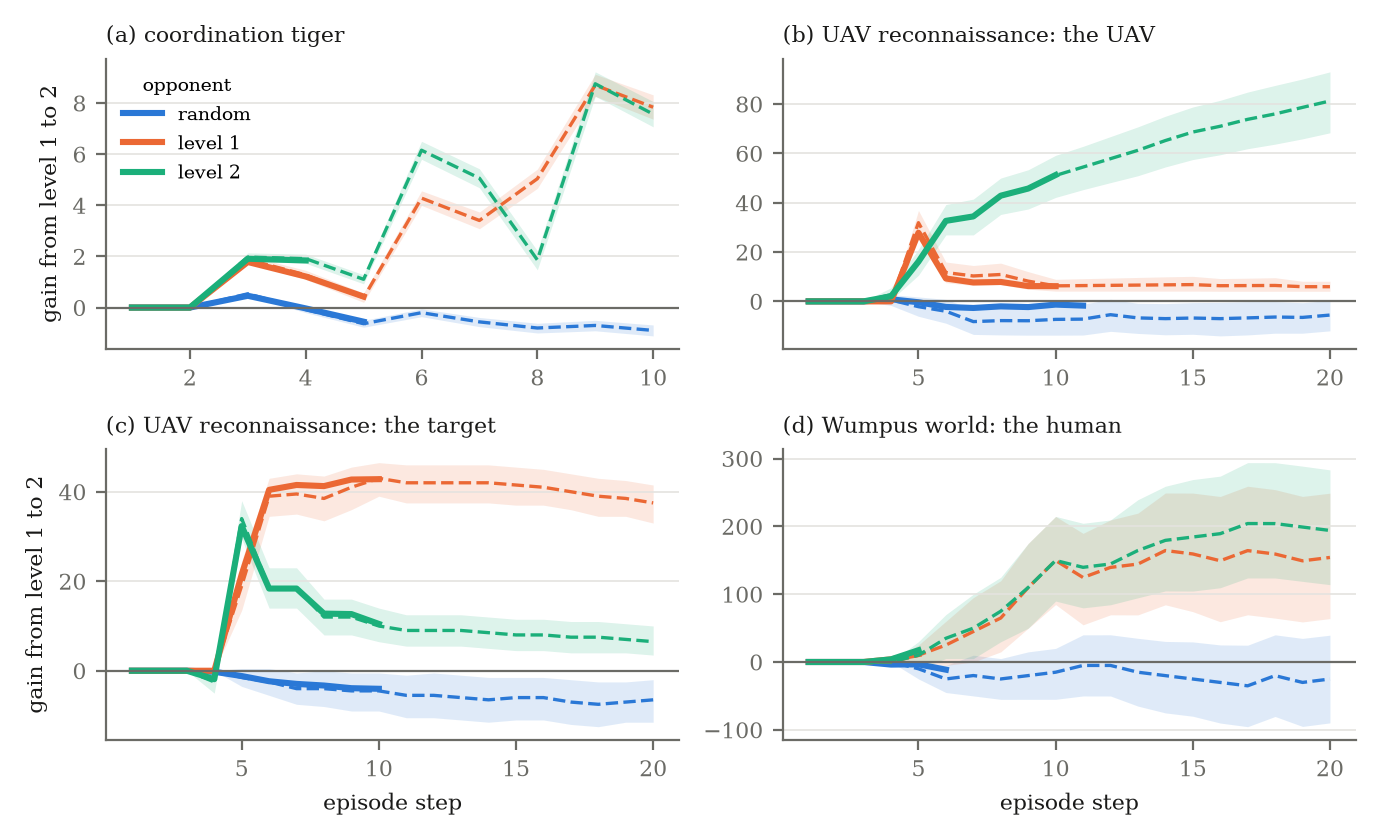
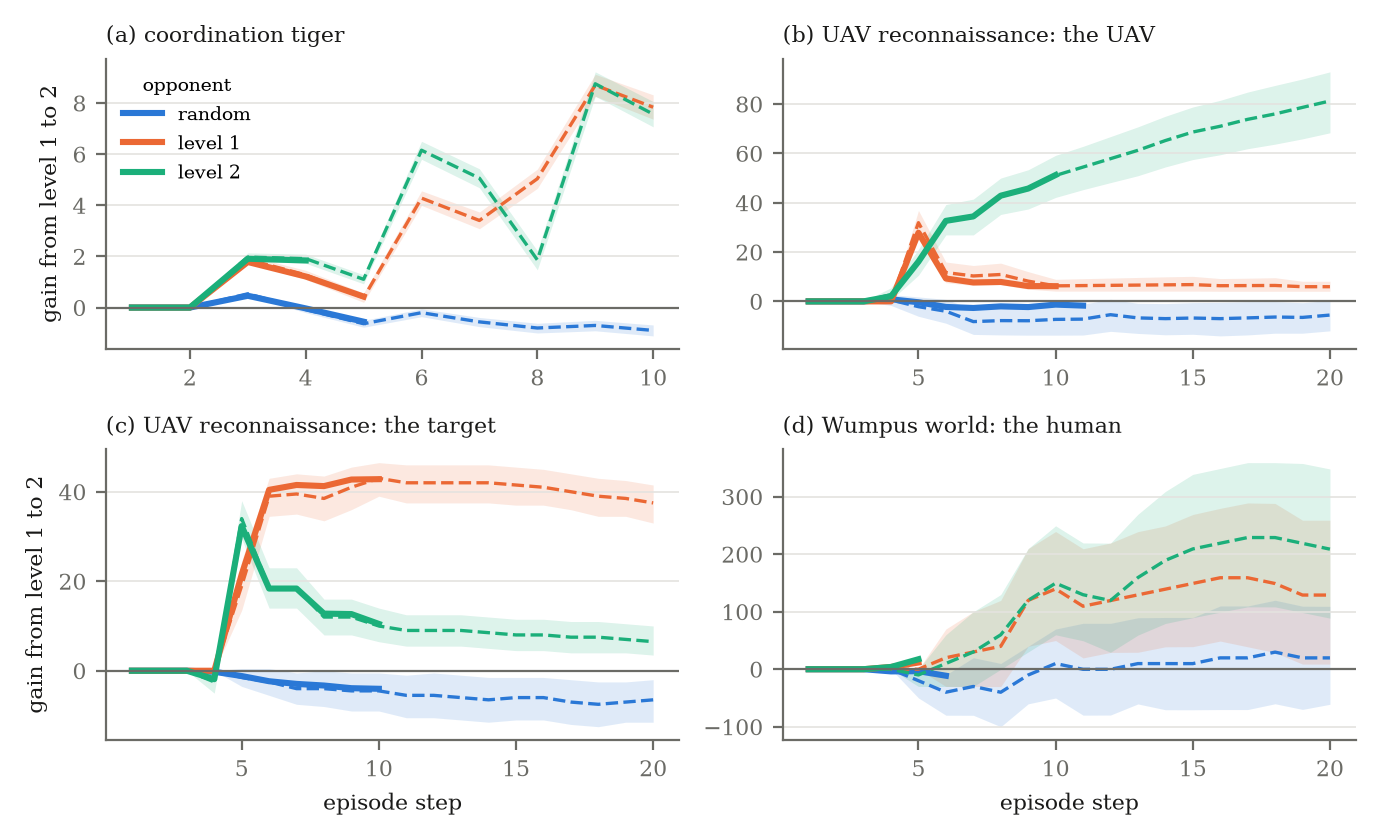
Paper: corrected values and citations; Figure 2's Wumpus panel from the pre-registered confirmation trials; planner seeds and plan-value units in the supplement

diff --git a/docs/paper/latex/main.tex b/docs/paper/latex/main.tex
@@ -262,13 +262,13 @@ All three domains are two-agent and finite, with explicit transition, observatio
 
 \paragraph{Multi-agent tiger.} Two agents face two doors, one hiding a tiger and the other a prize \cite{gmytrasiewicz2005framework}, so there are two physical states. Each agent can listen or open a door; listening costs 1, opening the tiger's door costs 100 and opening the other door pays 10, and if either agent opens a door the tiger is placed at random. A listening agent hears the tiger's growl from the correct side with probability 0.85, together with a creak that reports the other agent's action with probability 0.9. In this game, which we call the \emph{original} game, each agent's payoff depends only on its own door. We also use a \emph{coordination} variant with the same states, transitions and observations, in which each agent's payoff depends on the other agent's action: an agent that opens the safe door in the same step as the other agent receives 40 instead of 10. The joint payoff was chosen so that the exact value of one more level of reasoning is positive at reachable beliefs. We use the original game only for single decisions and the comparison with the baselines; all results on levels and depth use the coordination game, UAV reconnaissance and the Wumpus world.
 
-\paragraph{UAV reconnaissance and the Wumpus world.} In UAV reconnaissance \cite{doshi2009monte}, an unmanned aerial vehicle $i$ seeks a ground target $j$ on a $3 \times 3$ grid of sectors (81 physical states, 5 actions per agent). The UAV receives 50 for spotting the target, which ends the episode, and pays 5 for every other step; the target loses 50 when spotted. Parameters the original description leaves open follow \citet{zeng2012exploiting}. In the two-agent Wumpus world, a human $i$ searches a $3 \times 3$ grid with one pit for gold, while a wumpus $j$ hunts the human (2{,}048 initial states). The human receives 1000 for the gold and $-1000$ for dying, and the wumpus 1000 for catching the human and $-1000$ for being shot; every other step costs 1. All percepts are deterministic, which makes this domain a stress test for sampled beliefs. The supplement specifies both domains in full.
+\paragraph{UAV reconnaissance and the Wumpus world.} In UAV reconnaissance \cite{doshi2009monte}, an unmanned aerial vehicle $i$ seeks a ground target $j$ on a $3 \times 3$ grid of sectors (81 physical states, 5 actions per agent). The UAV receives 50 for spotting the target, which ends the episode, and pays 5 for every other step; the target loses 50 when spotted. The UAV's sensor and rewards follow \citet{zeng2012exploiting}; the target's are ours. In the two-agent Wumpus world, a human $i$ searches a $3 \times 3$ grid with one pit for gold, while a wumpus $j$ hunts the human (2{,}048 initial states). The human receives 1000 for the gold and $-1000$ for dying, and the wumpus 1000 for catching the human and $-1000$ for being shot; every other step costs 1, and a shot 10. All percepts are deterministic, which makes this domain a stress test for sampled beliefs. The supplement specifies both domains in full.
 
 \subsection{Exact References}
 
 \paragraph{Decisions.} For a single decision, we solve the finite-horizon I-POMDP of Eq.~\ref{eq:value} by full enumeration, with exact beliefs and every lower level solved exactly in turn; a modeled agent with several optimal actions plays them uniformly. A decision with policy $\pi$ at belief $b_i$ is scored by its first-action loss, $U^H(\theta_i) - \sum_{a} \pi(a)\, Q^H(\theta_i, a)$, the value it loses if every later decision is optimal. A decision is \emph{optimal} when its loss is at most $10^{-9}$.
 
-\paragraph{Episodes.} Each agent's realized actions and observations are replayed through the \emph{exact} (Bayes-optimal) agent of the same level, with the same frames, level priors and lookahead, exact beliefs, and every level solved exactly. At every step we test whether the agent's action is optimal for the exact agent, and compare the two posteriors over the other agent's level by total variation. Exact beliefs grow about threefold per step, so the replay covers an \emph{exact window} of 10, 8, 4 and 3 steps at levels 1--4 in the tiger game, and 20 and 10 steps at levels 1 and 2 in UAV reconnaissance. Inside the window, the expected reward of a pair of exact agents is computed with zero variance by enumerating the joint process of the physical state and both agents' beliefs.
+\paragraph{Episodes.} Each agent's realized actions and observations are replayed through the \emph{exact} (Bayes-optimal) agent of the same level, with the same frames, level priors and lookahead, exact beliefs, and every level solved exactly. At every step we test whether the agent's action is optimal for the exact agent, and compare the two posteriors over the other agent's level by total variation. In the tiger game exact beliefs grow about threefold per step above level 1; the replay covers an \emph{exact window} of 10, 8, 4 and 3 steps at levels 1--4 in the tiger game, and 20 and 10 steps at levels 1 and 2 in UAV reconnaissance. Inside the window, the expected reward of a pair of exact agents is computed with zero variance by enumerating the joint process of the physical state and both agents' beliefs.
 
 \subsection{Baselines}
 
@@ -280,7 +280,7 @@ All planners are implemented in Python and run single-threaded, one process per 
 
 \subsection{Protocols and Measures}
 
-\paragraph{Decisions at reachable beliefs.} To compare the planners on beliefs that agents reach in play, and on problems that every planner can take (I-NTMCP requires a common prior), we generate agent $i$'s histories from the common prior: $i$ acts uniformly at random among the actions that do not end the episode, and $j$ acts as the exact I-POMDP's own model of it. After 1--5 steps in UAV reconnaissance and 2--4 steps in the Wumpus world, the exact I-POMDP of level 2, with $j$ at level 1, is solved at $i$'s belief, and every planner decides the same problem. Histories that lead to the same belief are counted once: 512 distinct beliefs in UAV reconnaissance and 219 in the Wumpus world, of which a fixed random subset of 100 is decided by every planner and budget. No budget was chosen on these beliefs. Planners are compared with exact McNemar tests \cite{mcnemar1947note}, Holm-corrected \cite{holm1979simple}.
+\paragraph{Decisions at reachable beliefs.} To compare the planners on beliefs that agents reach in play, and on problems that every planner can take (I-NTMCP requires a common prior), we generate agent $i$'s histories from the common prior: $i$ acts uniformly at random among the actions that do not end the episode, and $j$ acts as the exact I-POMDP's own model of it. After 1--5 steps in UAV reconnaissance and 2--4 steps in the Wumpus world, the exact I-POMDP of level 2, with $j$ at level 1, is solved at $i$'s belief, and every planner decides the same problem. Histories that lead to the same belief are counted once: 512 distinct beliefs in UAV reconnaissance and 219 in the Wumpus world, of which a fixed random subset of 100 is decided by every planner and budget. No budget was chosen on these beliefs. Planners are compared with exact McNemar tests \cite{mcnemar1947note}, Holm-corrected \cite{holm1979simple}; intervals are Clopper--Pearson \cite{clopper1934use}.
 
 \paragraph{Decisions at chosen beliefs.} I-POMCP's budgets were chosen on grids of named beliefs at levels 1--4 and horizons 2--5, in which $i$'s and $j$'s beliefs about the physical state are crossed (supplement), and tested, unchanged, on random beliefs and seeds that the selection did not use.
 
@@ -302,9 +302,9 @@ All planners are implemented in Python and run single-threaded, one process per 
 \label{fig:compute}
 \end{figure}
 
-\paragraph{Compute to the Bayes-optimal decision.} Figure~\ref{fig:compute} shows how much computation each planner needs to decide as the Bayes-optimal agent does at UAV $H = 3$. I-POMCP reaches the benchmark with exact beliefs: all 100 decisions are optimal at each of three planner seeds (300 of 300, lower bound 0.988). With $N = 64$ it gives 79--81\% at every budget (89--94\% lose at most 0.05); the misses come from compression inside the tree, and exact beliefs remove every one we examined. IPF + RTS gives 60--75\% for $K$ from 2 to 8, with losses up to 17 (75--81\% with our sparse backup), and I-NTMCP reaches at most 58\%, with losses up to 55, becoming less accurate with more simulations. I-POMCP is right where a baseline is wrong on 25--63 beliefs and never the converse at any seed (Holm $p \leq 10^{-5}$). In the Wumpus world, whose percepts are deterministic, I-POMCP with exact beliefs is optimal on all 219 distinct reachable beliefs (lower bound 0.983), and on the figure's 100 takes 24--25~s against the exact solver's 18~s. IPF + RTS, with likelihood smoothing, is optimal on 47--48\% and I-NTMCP on 77\% (supplement). At the named beliefs on which its budgets were chosen, I-POMCP is optimal on all 2{,}787 decisions at levels 1--4 and horizons 2--5, and on 960 further random beliefs and seeds (supplement). Without exact scoring at the root, 34 of 560 UAV decisions become suboptimal (supplement).
+\paragraph{Compute to the Bayes-optimal decision.} Figure~\ref{fig:compute} shows how much computation each planner needs to decide as the Bayes-optimal agent does at UAV $H = 3$. I-POMCP reaches the benchmark with exact beliefs: all 100 decisions are optimal at each of three planner seeds (lower bound 0.964). With $N = 64$ it gives 79--81\% at every budget (89--94\% lose at most 0.05); the misses come from compression inside the tree, and exact beliefs remove every one we examined. IPF + RTS gives 60--75\% for $K$ from 2 to 8, with losses up to 17 (75--81\% with our sparse backup), and I-NTMCP reaches at most 58\%, with losses up to 55, becoming less accurate with more simulations. I-POMCP is right where a baseline is wrong on 25--63 beliefs and never the converse (Holm $p \leq 10^{-5}$). In the Wumpus world, whose percepts are deterministic, I-POMCP with exact beliefs is optimal on all 219 distinct reachable beliefs (lower bound 0.983), and on the figure's 100 takes 24--25~s against the exact solver's 18~s. IPF + RTS, with likelihood smoothing, is optimal on 47--48\% and I-NTMCP on 78\% (supplement). At the named beliefs on which its budgets were chosen, I-POMCP is optimal on all 2{,}787 decisions at levels 1--4 and horizons 2--5, and on 960 further random beliefs and seeds (supplement). Without exact scoring at the root, 34 of 560 UAV decisions become suboptimal (supplement).
 
-\paragraph{Where the exact solver stops.} At $H = 3$ the exact solver is cheaper than every planner that matches it, but not for long. On every distinct reachable belief of UAV reconnaissance at level 2, its median cost per decision grows 3.9-fold at $H = 4$ and a further 6.2-fold at $H = 5$. With exactly solved modeled levels, I-POMCP is optimal on 119 of 120 beliefs at $H = 4$ at 0.47 times the exact solver's CPU, but on 77 of 84 at $H = 5$ at 1.23 times. Solving the modeled target by search costs 0.005--0.10 times the exact solver and is optimal on 64--72 of 84 at $H = 5$ (mean loss 0.06): a frontier of cost against accuracy, not a planner that dominates the exact solver.
+\paragraph{Where the exact solver stops.} At $H = 3$ the exact solver is cheaper than every planner that matches it, but not for long. On every distinct reachable belief of UAV reconnaissance at level 2, its median cost per decision grows 4.2-fold at $H = 4$ and a further 6.2-fold at $H = 5$. With exactly solved modeled levels, I-POMCP is optimal on 119 of 120 beliefs at $H = 4$ at 0.47 times the exact solver's CPU, but on 77 of 84 at $H = 5$ at 1.23 times. Solving the modeled target by search costs 0.005--0.10 times the exact solver and is optimal on 64--72 of 84 at $H = 5$ (mean loss 0.06--0.80): a frontier of cost against accuracy, not a planner that dominates the exact solver.
 The crossover is sharper within one problem. In coordination tiger at level 3 and $H = 3$, the exact solver's cost per decision grows from 4.4~s to 55~s and 1{,}825~s over two steps of history, and after three it does not finish. I-POMCP with 100 simulations (7 to 59~s) is optimal on all 28 scored beliefs at 0.033 times the exact CPU; IPF + RTS is optimal on all 28 too, at 19--120~s, and I-NTMCP on 21--22.
 The bound also lets the initial belief be wide: over up to 128 level-1 models of $j$ in level-2 coordination tiger, $N = 1{,}024$ is optimal on all 39 reachable beliefs, where ignoring the width errs on 14, as its CPU grows 2.6-fold against the exact solver's 25-fold (supplement).
 
@@ -313,7 +313,7 @@ The bound also lets the initial belief be wide: over up to 128 level-1 models of
 
 We replay every agent of the coordination level grid through the exact agent over its exact window. At level 1, every one of 48{,}000 decisions is optimal; at levels 2, 3 and 4, 8{,}779 of 8{,}800, 8{,}361 of 8{,}400 and 1{,}793 of 1{,}800 are. The other 67 are near-ties (median exact gap 0.09) caused by belief compression at $N = 64$: rebuilt with exact beliefs, each of the 61 we examined chooses an optimal action. In UAV reconnaissance, all 10{,}391 replayed decisions of both agents at levels 1--2 are optimal.
 
-The agents' beliefs about each other are Bayes-exact as well. Along the same histories, the exact agent's posterior over the other agent's level coincides with the planner's: the paired mean difference is at most 0.003 at step 8 in every tiger cell, and in UAV reconnaissance the two agree to four decimals at every step of every series. When the true level is outside an agent's support, its posterior concentrates on the modeled level whose predictions are closest to the truth \cite{berk1966limiting} (supplement).
+The agents' beliefs about each other are Bayes-exact as well. Along the same histories, the exact agent's posterior over the other agent's level coincides with the planner's: the paired mean difference is at most 0.003 at step 8 in every tiger cell and at most 0.0005 at every step in UAV reconnaissance. When the true level is outside an agent's support, its posterior concentrates on the modeled level whose predictions are closest to the truth \cite{berk1966limiting} (supplement).
 
 \subsection{The Exact Value of One More Level}
 \label{sec:depth-results}
@@ -321,7 +321,7 @@ The agents' beliefs about each other are Bayes-exact as well. Along the same his
 \begin{figure}[t]
 \centering
 \includegraphics[width=\columnwidth]{gain_curves_col.pdf}
-\caption{Gain in expected cumulative reward from level 1 to level 2 of the stepping agent, by episode step, against a random opponent and opponents of levels 1 and 2. Solid: exact pairs (zero variance) inside the exact window. Dashed: I-POMCP episodes paired by seed, with 95\% bootstrap bands ($n = 15{,}000$ tiger, 100 UAV, 200 Wumpus).}
+\caption{Gain in expected cumulative reward from level 1 to level 2 of the stepping agent, by episode step, against a random opponent and opponents of levels 1 and 2. Solid: exact pairs (zero variance) inside the exact window. Dashed: I-POMCP episodes paired by seed, with 95\% bootstrap bands ($n = 15{,}000$ tiger, 100 UAV and Wumpus).}
 \label{fig:gains}
 \end{figure}
 
@@ -330,7 +330,7 @@ Against the true level, the cells fall into three classes. (b) When $m = k$, onl
 
 \paragraph{Over whole episodes.} Figure~\ref{fig:gains} follows the gain of a second level through episodes. Inside each exact window, the exact curves and I-POMCP's paired episodes coincide. In every domain the gain is zero until the two levels first act differently, then positive against an intentional opponent and negative against a random one: by step 10, I-POMCP's level-2 tiger agent gains 7.8 [7.4, 8.3] against level 1 and loses 0.9 [0.7, 1.1] against a random opponent ($n = 15{,}000$); a level-2 UAV gains 81 [68, 93] against a level-2 target over 20 steps. Receding-horizon play adds a timing effect that the decision-level statement does not cover. Against a random tiger opponent, the exact cumulative gain is $+0.46$ by step 3, yet the plan gain at the same histories is $-0.26$: the deeper agent collects reward early that its plan pays back ($-0.55$ by step 5). In 26 of 300 cell-steps the sign of the decision-point gain differs from that of the cumulative gain.
 
-\paragraph{Priors and equivalent levels.} In coordination tiger, a level-3 agent whose point prior puts the partner one level too low loses 32.1 [28.4, 35.6] by step 20 against the correct prior, and a uniform prior 6.0 [3.7, 8.3] ($n = 1{,}000$). At level 4 no prior costs anything: levels 3 and 4 act alike within the lookahead, a behavioral equivalence \cite{zeng2012exploiting}.
+\paragraph{Priors and equivalent levels.} In coordination tiger, a level-3 agent whose point prior puts the partner one level too low loses 32.1 [28.4, 35.6] by step 20 against the correct prior, and a uniform prior 6.0 [3.7, 8.3] ($n = 1{,}000$). At level 4 no prior costs anything: levels 3 and 4 act alike within the lookahead, a behavioral equivalence \cite{rathnasabapathy2006exact}.
 
 %======================================================================
 \section{Discussion}

diff --git a/docs/paper/latex/supplement.tex b/docs/paper/latex/supplement.tex
@@ -558,6 +558,7 @@ $\mathbb E[r_t+\gamma g_k(h_{t+1})\mid h_t]=g_{k+1}(h_t)+\gamma\,\mathbb E[\xi(h
 bracket has conditional mean $G(h_t)+\gamma\,\mathbb E[\xi(h_{t+1})\mid h_t]$. Subtract the first identity for
 $l=k$.
 \end{proof}
+Plan values are discounted $H$-step values; the cumulative gains of Section~7.3 of the paper are undiscounted sums of reward.
 
 \paragraph{The exact check.} For every cell of the level grids (tiger, coordination and published, $k \to k+1$ for $k \leq 3$; UAV and the Wumpus world, both roles, $k \leq 1$), we enumerate $i$'s histories against the true opponent, as played by the exact agent at level $k$ and, separately, at level $k+1$, and at each history we evaluate both levels' receding plans exactly against the true opponent. Comparing at the same history removes the timing effect of receding-horizon play. Each cell runs until its step count or a cap of 4~GB and 1~CPU-hour (8~GB and 2~CPU-hours for the four largest tiger cells); 107 of the 116 cell-references stop at the memory cap, which fixes the number of steps covered.
 
@@ -689,6 +690,8 @@ A level-2 UAV plans with $H = 4$ or 5 in 20-step episodes from the common prior 
 
 \section{Further Results}
 \label{sec:further}
+
+\paragraph{Planner seeds.} The comparison of Figure~1 of the paper was repeated at two further planner seeds for I-POMCP, for I-NTMCP at $M = 4{,}000$ and 16{,}000, and for IPF + RTS at $K = 4$ in both configurations; the other arms were run at one seed. In none of these runs is I-POMCP wrong where a baseline is right.
 
 \paragraph{Episodes inside the exact window.} The exact pair's expected reward lies within the I-POMCP pair's 95\% interval at 97 of 100 agent-steps of the coordination tiger grid and at 31 of 36 of the UAV grid.
 
